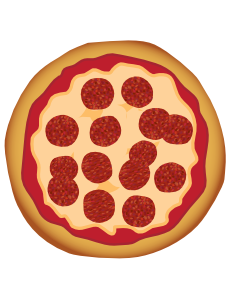
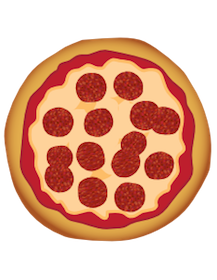
change size of mover pizzas and reduce calls from 50 to 30

diff --git a/views/js/main.js b/views/js/main.js
@@ -358,6 +358,14 @@ var makeRandomPizza = function() {
 }
 
 // returns a DOM element for each pizza
+//////////////////////////// Cynthia's Magic Pizza Generator ///////////////////////////
+
+//var pizzaElementGenerator = function(){}
+
+
+/////////////////////////  End of Cynthia's Magic Pizza Generator //////////////////////
+
+
 var pizzaElementGenerator = function(i) {
   var pizzaContainer,             // contains pizza title, image and list of ingredients
       pizzaImageContainer,        // contains the pizza image
@@ -401,6 +409,7 @@ var pizzaElementGenerator = function(i) {
 var resizePizzas = function(size) { 
   window.performance.mark("mark_start_resize");   // User Timing API function
 
+//////////  Save document query to variable  ////////////
   function changeSliderLabel(size){
       var selector = document.querySelector("#pizzaSize");
       switch(size) {
@@ -445,7 +454,8 @@ var resizePizzas = function(size) {
 // Iterates through pizza elements on the page and changes their widths
   function changePizzaSizes(size) {
     var selector = document.querySelectorAll(".randomPizzaContainer");
-    for (var i = 0; i < selector.length; i++) {
+
+    for (var i = 0; i < 100; i++){
       var dx = determineDx(selector[i], size);
       var newwidth = (selector[i].offsetWidth + dx) + 'px';
       selector[i].style.width = newwidth;
@@ -523,10 +533,10 @@ window.addEventListener('scroll', updatePositions);
 document.addEventListener('DOMContentLoaded', function() {
   var cols = 8;
   var s = 256;
-  for (var i = 0; i < 50; i++) {
+  for (var i = 0; i < 30; i++) {
     var elem = document.createElement('img');
     elem.className = 'mover';
-    elem.src = "images/pizza.png";
+    elem.src = "images/pizzaSm.png";
     elem.style.height = "100px";
     elem.style.width = "73.333px";
     elem.basicLeft = (i % cols) * s;
